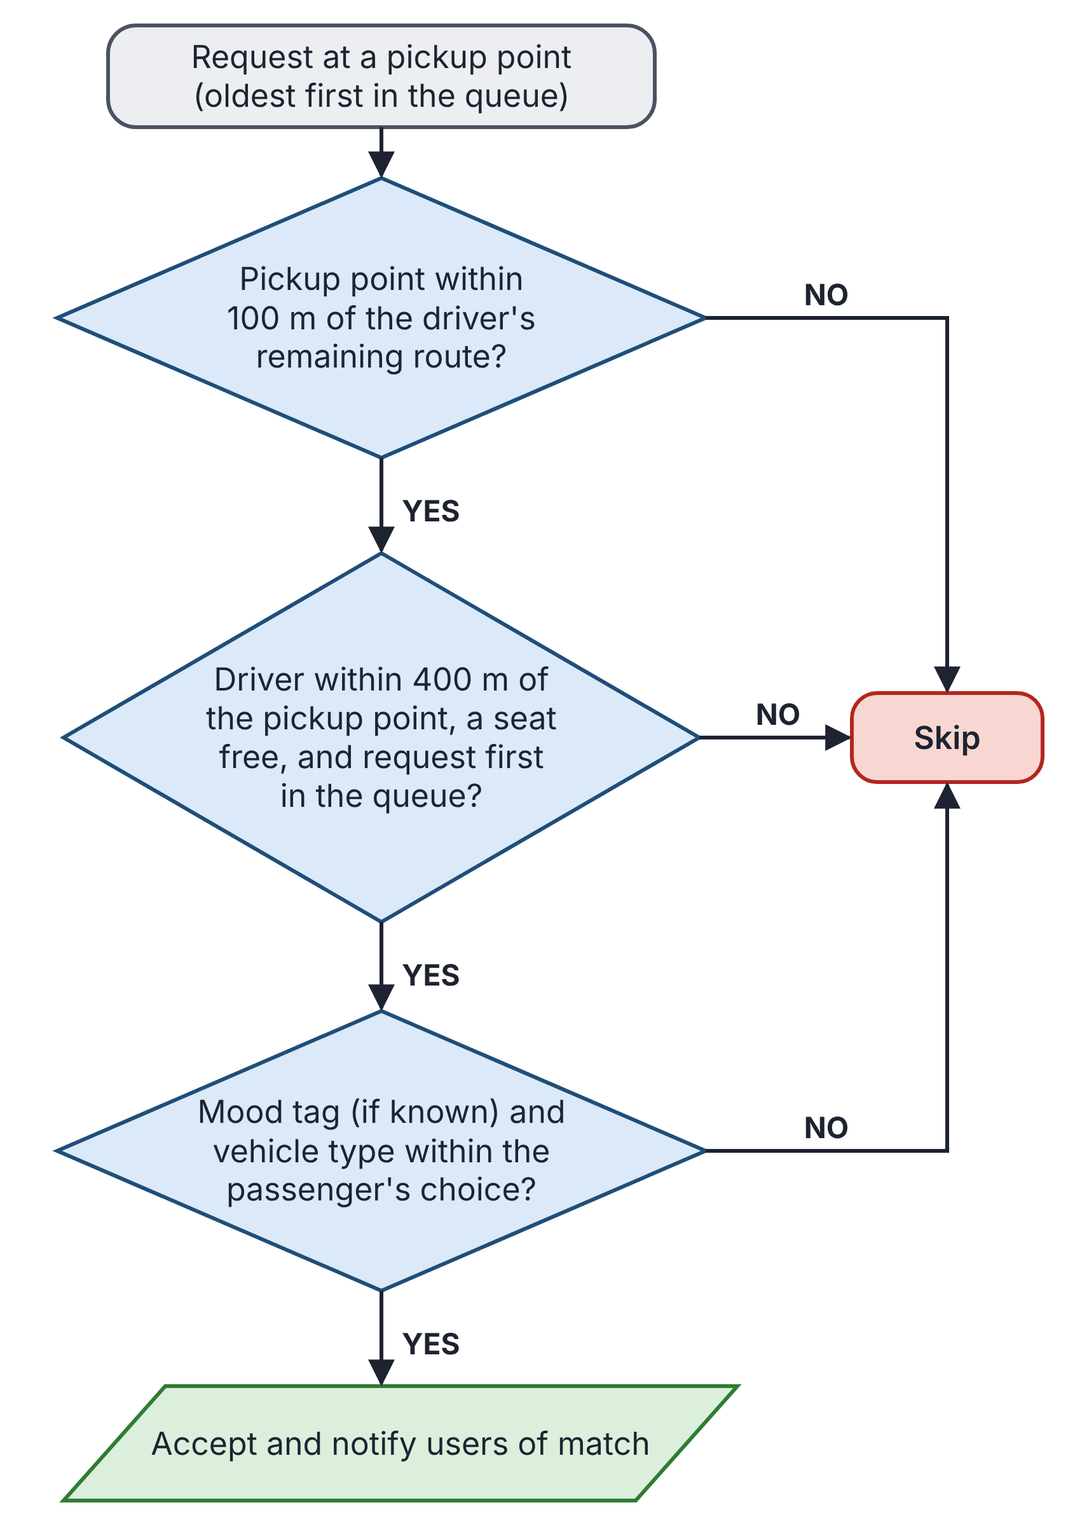
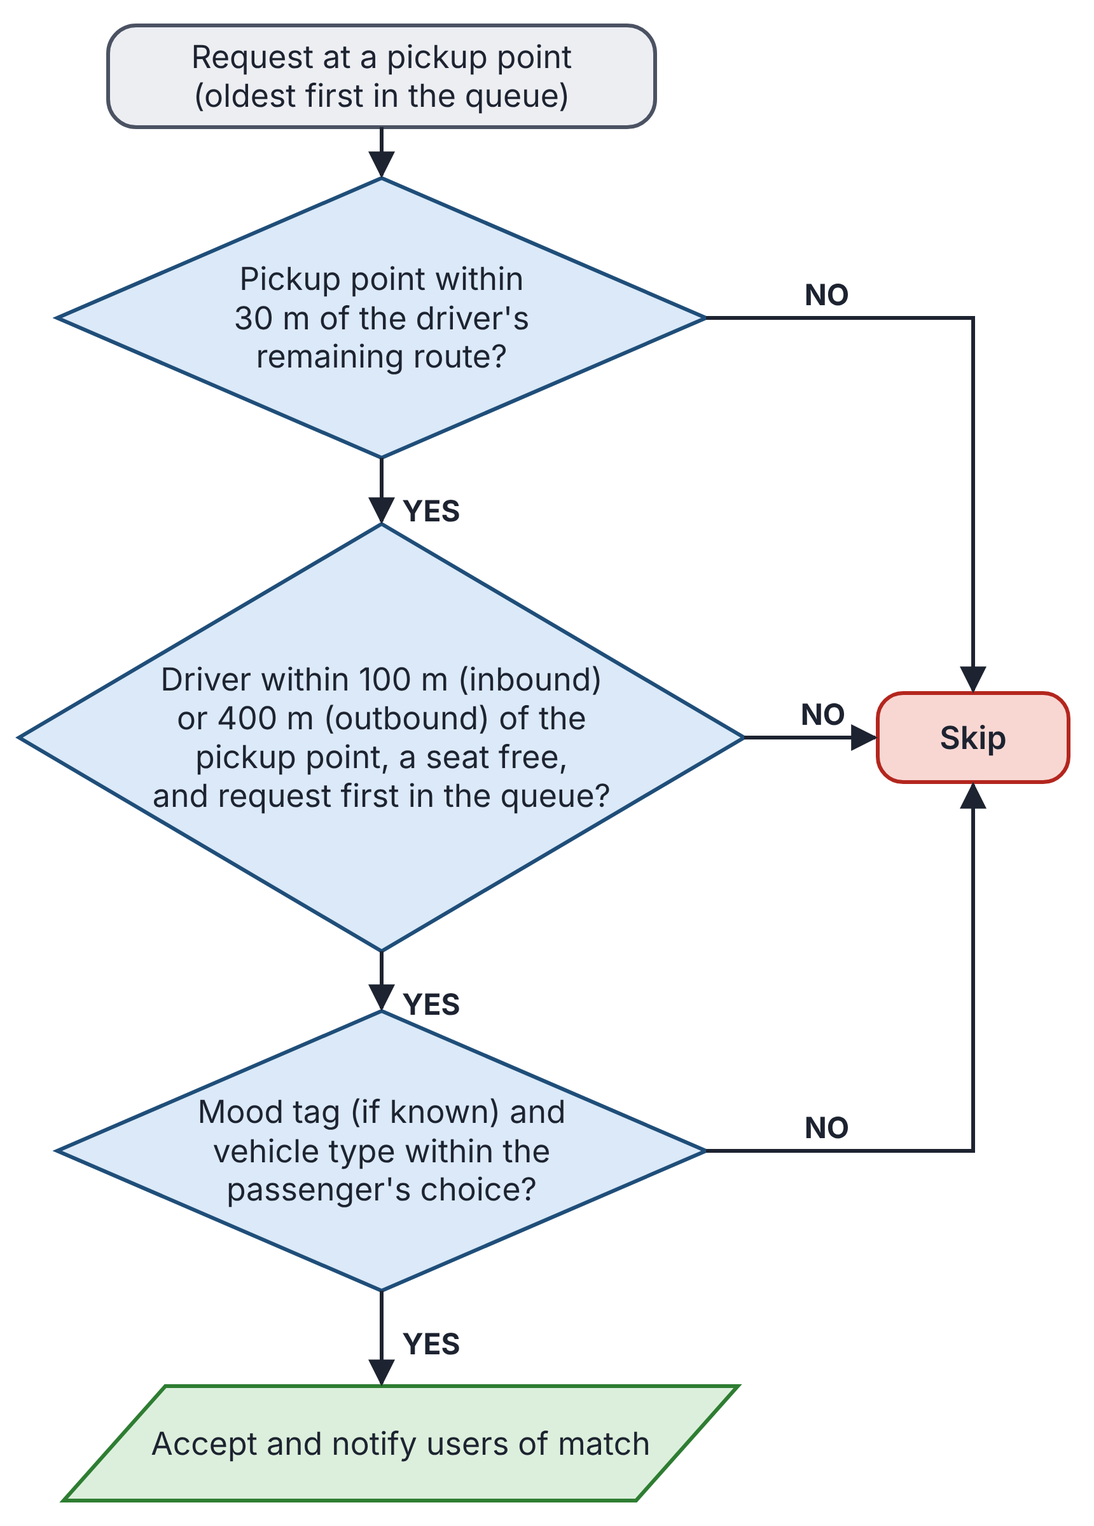
Use the updated matching distances in the methodology
Apply the 30 m route filter, the 100 m (inbound) and 400 m (outbound)
acceptance limits and the 20 m inbound passenger limit to the matching,
system flow and testing descriptions, and update Figure 3.11 to match.

diff --git a/chapter3.tex b/chapter3.tex
@@ -346,7 +346,7 @@ When requesting a ride, passengers select the moods they accept (Lively, Chill, 
 
 \textbf{Why a fail-open filter.} The AI is an optional layer on the ridesharing function, so it must not be able to stop a ride. The alternatives were to exclude every driver whose tag does not match, including drivers whose tag is unknown, and to rank compatible drivers higher instead of excluding the others. Excluding unknown tags would block rides whenever the classifier is unsure or the microphone is unavailable, and it would thin the pool of drivers (Table~\ref{tab:ai-chance}). Ranking would limit the cost of a wrong tag, but it would also show passengers drivers whose mood they did not choose, so it is recommended for future work (Section~\ref{sec:recs}).
 
-The function first evaluates the following hard filters, numbered as in the use-case catalogue, all of which must hold: the request is still pending (HF-7); the driver is an approved driver whose account has not been suspended (HF-1) and who is set to Available on a route direction matching the request (HF-2); the driver’s stored location is on the correct side of the campus geofence for that direction (off campus for inbound, on campus for outbound); at least one passenger seat remains (HF-4); and the driver is within 400 m of the pickup point by straight-line distance (HF-5). A passenger’s vehicle-type preference is then applied with the same fail-open rule as mood. When a passenger prefers a motorcycle, the mood selector is replaced by a short note and the mood preference is stored as Any, because motorcycles do not run mood detection. The driver can accept only the oldest pending request at that pickup point and direction (first-in, first-out, described below). For outbound trips, the driver must also have chosen a final destination. Route alignment (HF-3) is applied on the driver’s screen as a display filter, because the server stores the driver’s location but not the route, so a request is shown only when its pickup lies within 100 m of the remaining route.
+The function first evaluates the following hard filters, numbered as in the use-case catalogue, all of which must hold: the request is still pending (HF-7); the driver is an approved driver whose account has not been suspended (HF-1) and who is set to Available on a route direction matching the request (HF-2); the driver’s stored location is on the correct side of the Bunzel geofence for that direction (outside it for inbound, inside it for outbound); at least one passenger seat remains (HF-4); and the driver is within 100 m of the pickup point for an inbound trip, or within 400 m for an outbound trip, by straight-line distance (HF-5). A passenger’s vehicle-type preference is then applied with the same fail-open rule as mood. When a passenger prefers a motorcycle, the mood selector is replaced by a short note and the mood preference is stored as Any, because motorcycles do not run mood detection. The driver can accept only the oldest pending request at that pickup point and direction (first-in, first-out, described below). For outbound trips, the driver must also have chosen a final destination. Route alignment (HF-3) is applied on the driver’s screen as a display filter, because the server stores the driver’s location but not the route, so a request is shown only when its pickup lies within 30 m of the remaining route.
 
 Requests are served first-in, first-out. A passenger’s place in the queue is fixed by the time the passenger first joined and never resets when the passenger edits their preferences. This prevents users from gaming the queue and keeps the concurrency logic simple.
 
@@ -416,7 +416,7 @@ Campus fence & An inbound driver is off campus, and an outbound driver is on cam
 \hline
 Seats & At least one passenger seat remains. & Rejected \\
 \hline
-Distance & The driver is within 400 m of the pickup point in a straight line. & Rejected \\
+Distance & The driver is within 100 m (inbound) or 400 m (outbound) of the pickup point in a straight line. & Rejected \\
 \hline
 Mood & The passenger’s accepted moods are empty or include all three (Any), or the driver’s tag is unknown, or the tag is on the passenger’s list. & Rejected only when the tag is known and not on a partial list \\
 \hline
@@ -593,7 +593,7 @@ The driver interface presents requests associated with pickup points near the re
 
 On the driver's screen, route alignment uses a 30~m proximity threshold from the relevant ride point to the remaining route. Requests at the same queue point and direction are ordered by creation time. On acceptance, the \texttt{matchRide} Cloud Function checks that the request is pending, the driver is available and approved, the trip direction and position relative to the Bunzel geofence agree, and a seat remains. The driver's straight-line distance from the pickup must be no more than 100~m for inbound trips or 400~m for outbound trips. The function also checks queue order and vehicle preference before updating the request and capacity in a transaction. An unknown vehicle type is treated as compatible. The server does not independently recheck the route-proximity filter because it does not have the route polyline.
 
-Two further limits keep the interaction safe and relevant. A passenger can only request a pickup point that is within 100~m of their position. A driver is shown a request only when its pickup point is within 100~m of the remaining route, and can accept it only when the driver is within 400~m of the pickup point and the passengers on board are below the vehicle's capacity. When a driver's position changes so that a waiting request becomes eligible under these checks, a Cloud Function uses the same server-side eligibility check as acceptance and sends a push notification, so the driver does not have to keep the screen open. A narrower 300 to 400~m prompt window with a minimum estimated time of arrival of three minutes was part of the original design to limit distraction, but it is not applied in the current build. When the match is accepted, the server also copies each side's display name and rating, and the driver's vehicle type and plate number, onto the request so that the two riders can recognize each other.
+Two further limits keep the interaction safe and relevant. An inbound passenger can only request a pickup point that is within 20~m of their position. A driver is shown a request only when its pickup point is within 30~m of the remaining route, and can accept it only when the driver is within 100~m of the pickup point for an inbound trip, or within 400~m for an outbound trip, and the passengers on board are below the vehicle's capacity. When a driver's position changes so that a waiting request becomes eligible under these checks, a Cloud Function uses the same server-side eligibility check as acceptance and sends a push notification, so the driver does not have to keep the screen open. A narrower 300 to 400~m prompt window with a minimum estimated time of arrival of three minutes was part of the original design to limit distraction, but it is not applied in the current build. When the match is accepted, the server also copies each side's display name and rating, and the driver's vehicle type and plate number, onto the request so that the two riders can recognize each other.
 
 This logic is consistent with optimization practices found in ride-hailing literature, where user fairness and system-level route efficiency are jointly considered to balance service quality and operational practicality \cite{cao2021optimization}. Additionally, minimizing cognitive load on drivers through controlled notifications aligns with research showing that poorly timed prompts can contribute to distracted driving and reduce overall safety—particularly among younger, less experienced drivers such as university students \cite{xing2024understanding,oviedo2018young}. By showing a driver only requests that are on the route, close enough to accept, and within capacity, and by notifying only when a request becomes eligible, the system limits unnecessary prompts while maintaining real-time responsiveness in a multi-user environment.
 
@@ -689,7 +689,7 @@ Figure~\ref{fig:driver menu} shows the user flow for the Driver Menu. The driver
         \label{fig:ui-driver-menu}
     \end{figure}
 
-\paragraph{Inbound USC-TC} Figures~\ref{fig: Driver Inbound} and~\ref{fig: Driver Inbound 2} show the process a student driver follows when offering rides to USC-TC. The application draws a route from the driver's location to the Bunzel Lobby (Figure~\ref{fig:ui-driver-inbound}a). When the driver switches \emph{Available} on, the application saves the driver's availability, begins sharing the driver's location, and, for cars, starts mood detection (Section~\ref{sec:ai}). Requests whose pickup point lies within 100~m of the route are listed, oldest first at each pickup point, and drawn on the map (Figure~\ref{fig:ui-driver-inbound}b). The driver accepts a request by tapping \emph{Accept}, or turns on \emph{Auto-accept}, in which case the application accepts the oldest eligible request itself. In both cases the server repeats the checks of Section~\ref{sec:matching} before the request is accepted. After an acceptance, the seat count drops and the route is rebuilt through the accepted pickup points (Figure~\ref{fig:ui-driver-inbound}c). At each pickup point the driver taps \emph{Confirm pickup}; the first confirmation starts the trip and live tracking for the passengers. If the driver leaves the route by 75~m or more, the route is recalculated automatically. During the trip, a passenger may ask for an early drop-off, which the driver confirms. A driver may cancel a passenger who has not yet been picked up, which frees the seat, or end the whole trip early, in which case the passengers on board are recorded as \emph{terminated early} and no Ride Tokens are earned. When every accepted passenger has been picked up, the driver taps \emph{Complete ride} (Figure~\ref{fig:ui-driver-inbound}d).
+\paragraph{Inbound USC-TC} Figures~\ref{fig: Driver Inbound} and~\ref{fig: Driver Inbound 2} show the process a student driver follows when offering rides to USC-TC. The application draws a route from the driver's location to the Bunzel Lobby (Figure~\ref{fig:ui-driver-inbound}a). When the driver switches \emph{Available} on, the application saves the driver's availability, begins sharing the driver's location, and, for cars, starts mood detection (Section~\ref{sec:ai}). Requests whose pickup point lies within 30~m of the route are listed, oldest first at each pickup point, and drawn on the map (Figure~\ref{fig:ui-driver-inbound}b). The driver accepts a request by tapping \emph{Accept}, or turns on \emph{Auto-accept}, in which case the application accepts the oldest eligible request itself. In both cases the server repeats the checks of Section~\ref{sec:matching} before the request is accepted. After an acceptance, the seat count drops and the route is rebuilt through the accepted pickup points (Figure~\ref{fig:ui-driver-inbound}c). At each pickup point the driver taps \emph{Confirm pickup}; the first confirmation starts the trip and live tracking for the passengers. If the driver leaves the route by 75~m or more, the route is recalculated automatically. During the trip, a passenger may ask for an early drop-off, which the driver confirms. A driver may cancel a passenger who has not yet been picked up, which frees the seat, or end the whole trip early, in which case the passengers on board are recorded as \emph{terminated early} and no Ride Tokens are earned. When every accepted passenger has been picked up, the driver taps \emph{Complete ride} (Figure~\ref{fig:ui-driver-inbound}d).
 
     \flowsplit{Driver Inbound to USC-TC (1 of 2): going available and accepting requests}{fig: Driver Inbound}{Driver Inbound 1}
 
@@ -727,7 +727,7 @@ Figure~\ref{fig: passenger menu} shows the user flow for the Passenger Menu. The
 
     \flowsplit{Passenger Menu}{fig: passenger menu}{Passenger Menu}
 
-\paragraph{Inbound USC-TC} Figures~\ref{fig: Passenger Inbound} and~\ref{fig: Passenger Inbound 2} outline the passenger's journey to the campus. The application shows the approved pickup points near the passenger, each marked \emph{In range} or \emph{Too far} (Figure~\ref{fig:ui-pax-inbound}a). A request can only be made for a point within 100~m of the passenger. The passenger then chooses which moods to accept and a vehicle preference, where \emph{Any} matches every driver (Figure~\ref{fig:ui-pax-inbound}b), and taps \emph{Request ride}. The server creates the request, sets its direction from the pickup point, and fixes the passenger's place in the first-in, first-out queue of that pickup point. The waiting screen reads \emph{Looking for a driver} (Figure~\ref{fig:ui-pax-inbound}c). If the passenger moves more than 100~m from the pickup point while waiting, the request is cancelled automatically. After about two minutes without a match, the passenger may accept more moods or vehicle types; this edits the same request, so the queue place does not change (Section~\ref{sec:moodmatch}). When a driver accepts, the passenger is notified, can follow the driver's location on the map, and can chat with the driver (Figure~\ref{fig:ui-pax-inbound}d). If the driver cancels or ends the trip early, the passenger sees a notice and may request again. A passenger who needs to leave before the end can ask for an early drop-off, which the driver confirms.
+\paragraph{Inbound USC-TC} Figures~\ref{fig: Passenger Inbound} and~\ref{fig: Passenger Inbound 2} outline the passenger's journey to the campus. The application shows the approved pickup points near the passenger, each marked \emph{In range} or \emph{Too far} (Figure~\ref{fig:ui-pax-inbound}a). A request can only be made for a point within 20~m of the passenger. The passenger then chooses which moods to accept and a vehicle preference, where \emph{Any} matches every driver (Figure~\ref{fig:ui-pax-inbound}b), and taps \emph{Request ride}. The server creates the request, sets its direction from the pickup point, and fixes the passenger's place in the first-in, first-out queue of that pickup point. The waiting screen reads \emph{Looking for a driver} (Figure~\ref{fig:ui-pax-inbound}c). If the passenger moves more than 100~m from the pickup point while waiting, the request is cancelled automatically. After about two minutes without a match, the passenger may accept more moods or vehicle types; this edits the same request, so the queue place does not change (Section~\ref{sec:moodmatch}). When a driver accepts, the passenger is notified, can follow the driver's location on the map, and can chat with the driver (Figure~\ref{fig:ui-pax-inbound}d). If the driver cancels or ends the trip early, the passenger sees a notice and may request again. A passenger who needs to leave before the end can ask for an early drop-off, which the driver confirms.
 
     \flowsplit{Passenger Inbound to USC-TC (1 of 2): requesting a ride}{fig: Passenger Inbound}{Passenger Inbound 1}
 
@@ -1388,7 +1388,7 @@ Testing is carried out in four phases. The first two phases are referred to as a
     \end{tabular}
 \end{table}
 
-\paragraph{Reference standard.} The four phases follow the test levels described in ISO/IEC/IEEE 29119 (Section~\ref{sec:standards}): unit testing of individual rules, system testing of the integrated application, and acceptance testing by the intended users, with beta testing by outside volunteers added before the acceptance phase. Following the documentation practice of the standard, each system test case records a step, an expected result, and an actual result per device, and the beta tasks are kept as a fixed written task list (Appendix~\ref{app:beta}). The expected results come from the specified rules, such as the 400~m acceptance limit, the 100~m route-match radius, and the token scenarios of Section~\ref{sec:tokens}, which corresponds to the requirement-based test design described in Part 4 of the standard. Part 11 of the standard, on AI-based systems, is a pointer for the mood classifier, which is evaluated on a held-out test set and on real-world songs (Chapter~4). The standard serves only as a reference framework; the testing was not assessed for conformance with it.
+\paragraph{Reference standard.} The four phases follow the test levels described in ISO/IEC/IEEE 29119 (Section~\ref{sec:standards}): unit testing of individual rules, system testing of the integrated application, and acceptance testing by the intended users, with beta testing by outside volunteers added before the acceptance phase. Following the documentation practice of the standard, each system test case records a step, an expected result, and an actual result per device, and the beta tasks are kept as a fixed written task list (Appendix~\ref{app:beta}). The expected results come from the specified rules, such as the 100~m (inbound) and 400~m (outbound) acceptance limits, the 30~m route-match radius, and the token scenarios of Section~\ref{sec:tokens}, which corresponds to the requirement-based test design described in Part 4 of the standard. Part 11 of the standard, on AI-based systems, is a pointer for the mood classifier, which is evaluated on a held-out test set and on real-world songs (Chapter~4). The standard serves only as a reference framework; the testing was not assessed for conformance with it.
 
 \paragraph{Testing approach.} The tester tasks and the survey are black box testing: the testers do not know the code and judge the application only by the inputs they give and the outputs they see \cite{gfgbox}. Beta testing means that a limited group of real users tries the application and gives feedback, and acceptance testing means that end users check that the application meets their requirements in realistic scenarios \cite{gfgacceptance}. The results are kept in two groups. Functional testing checks that the application works according to its specified requirements \cite{gfgfunctional}; it is the task list, where each task is recorded as Pass, Fail, or Could not try. Non-functional testing checks how well the application works rather than what it does \cite{gfgnonfunctional}; here it is the System Usability Scale and the survey questions on speed, notifications, readability, reliability, and privacy. These are the testers' perceptions, not measurements, and no phase times responses under load, so this study does not claim performance or load testing. The user acceptance phase is judged mainly on these usability and perception questions. The automated and rules tests run by the proponents are white box testing, because the tester knows the code, and checks made with partial knowledge of the internals, such as comparing a token award with the formula, are grey box testing \cite{gfgbox}.
 
@@ -1409,7 +1409,7 @@ On Android devices during alpha and beta testing, the proponents built the appli
 For alpha and beta testing, the proponents signed in with their own Apple IDs and used their own Bundle Identifiers. For the iOS devices in UAT, the proponents asked each participant to sign in with his or her Apple ID in Xcode during onboarding, on the proponents' computer, and every step after that was done in the same way. The proponents used free Apple ID accounts, and an application signed with a free Apple ID stops opening after seven days. The proponents therefore reinstalled the application on each iOS device after seven days.
 
 \subsubsection{Phase 1: Unit Testing}
-Unit testing is automated and is white box testing. It runs the Flutter static analysis (\texttt{flutter analyze}), the Flutter test suite (\texttt{flutter test}), the Cloud Functions test suite (\texttt{npm run test:functions}), the Firestore and Storage rules tests (\texttt{npm run test:rules}, run in the Firebase emulator), and a set of nine verification scripts. The Flutter tests are grouped into six areas: accounts and registration, ride flow and matching, tokens, fuel, and the CES period, admin, reports, and ratings, mood detection, and shared interface and safety. The scripts check that the server campus geofence agrees with the client, the \texttt{matchRide} rules (400 m limit, campus-side direction, capacity, and vehicle filters), the Ride Token arithmetic against the scenarios in this manuscript, the routes and Places parsers, the ranking of alternative drop-off points, the Firestore and Storage security rules, and the DOE fuel price parser, which can also be run live against the current DOE report. A few parts have no automated test of their own, namely the eleven push notification triggers, the privacy retention functions, the callable functions that create ride requests and calculate Ride Tokens, the emergency report function, and some client services for the trip lifecycle and notification navigation. These are covered by the system test cases instead.
+Unit testing is automated and is white box testing. It runs the Flutter static analysis (\texttt{flutter analyze}), the Flutter test suite (\texttt{flutter test}), the Cloud Functions test suite (\texttt{npm run test:functions}), the Firestore and Storage rules tests (\texttt{npm run test:rules}, run in the Firebase emulator), and a set of nine verification scripts. The Flutter tests are grouped into six areas: accounts and registration, ride flow and matching, tokens, fuel, and the CES period, admin, reports, and ratings, mood detection, and shared interface and safety. The scripts check that the server campus geofence agrees with the client, the \texttt{matchRide} rules (100 m inbound and 400 m outbound limits, geofence-side direction, capacity, and vehicle filters), the Ride Token arithmetic against the scenarios in this manuscript, the routes and Places parsers, the ranking of alternative drop-off points, the Firestore and Storage security rules, and the DOE fuel price parser, which can also be run live against the current DOE report. A few parts have no automated test of their own, namely the eleven push notification triggers, the privacy retention functions, the callable functions that create ride requests and calculate Ride Tokens, the emergency report function, and some client services for the trip lifecycle and notification navigation. These are covered by the system test cases instead.
 
 \subsubsection{Phase 2: System Testing}
 System testing runs 32 cases that exercise the application as a whole through its screens, with some checks made against the backend. The cases are grouped into six areas, accounts and admin (S-A1 to S-A6), ride flow (S-B1 to S-B8), matching filters (S-C1 to S-C6), tokens and fuel (S-D1 to S-D4), notifications and chat (S-E1 to S-E4), and safety and privacy (S-F1 to S-F4), and they are listed in Appendix~\ref{app:systemcases}. Each case lists a step, an expected result, and the actual result per device, together with who ran it, the date, and any defect found. The cases are executed on two emulators, with an admin account and the live backend, and then repeated on three physical devices (Table~\ref{tab:devices}). On the physical devices each case is run in five rounds, and it passes only when all five rounds succeed and fails if at least one round fails. In addition, a set of measurements is recorded per device, taking what was observed rather than an estimate: the time from a ride request to the driver prompt, the time from the driver's acceptance to the passenger's screen update (median of 5 runs each), the cold start time (median of 3 runs), the number of crashes and freezes counted from Firebase Crashlytics and the testers' notes, the number of correct mood detections out of nine test clips (three Lively, three Chill, three Quiet), and the size of the debug build.
